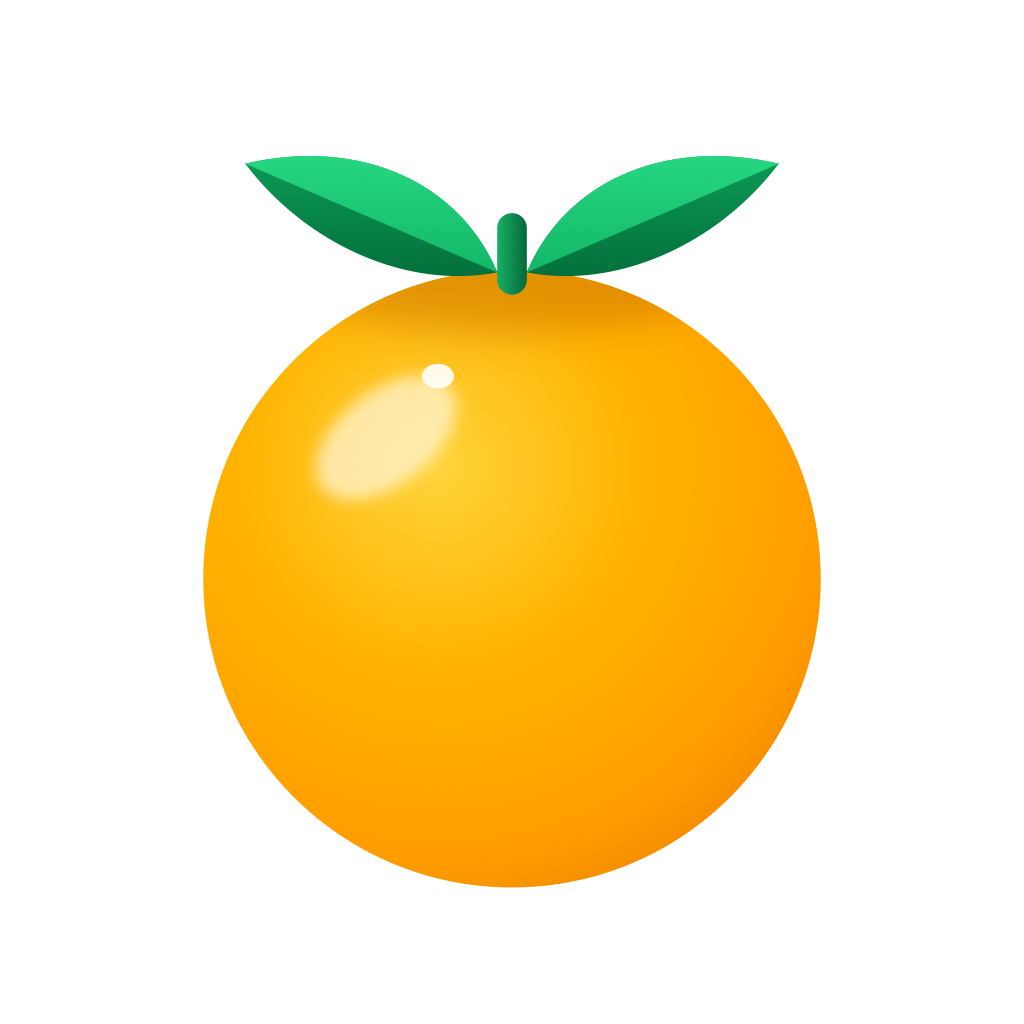
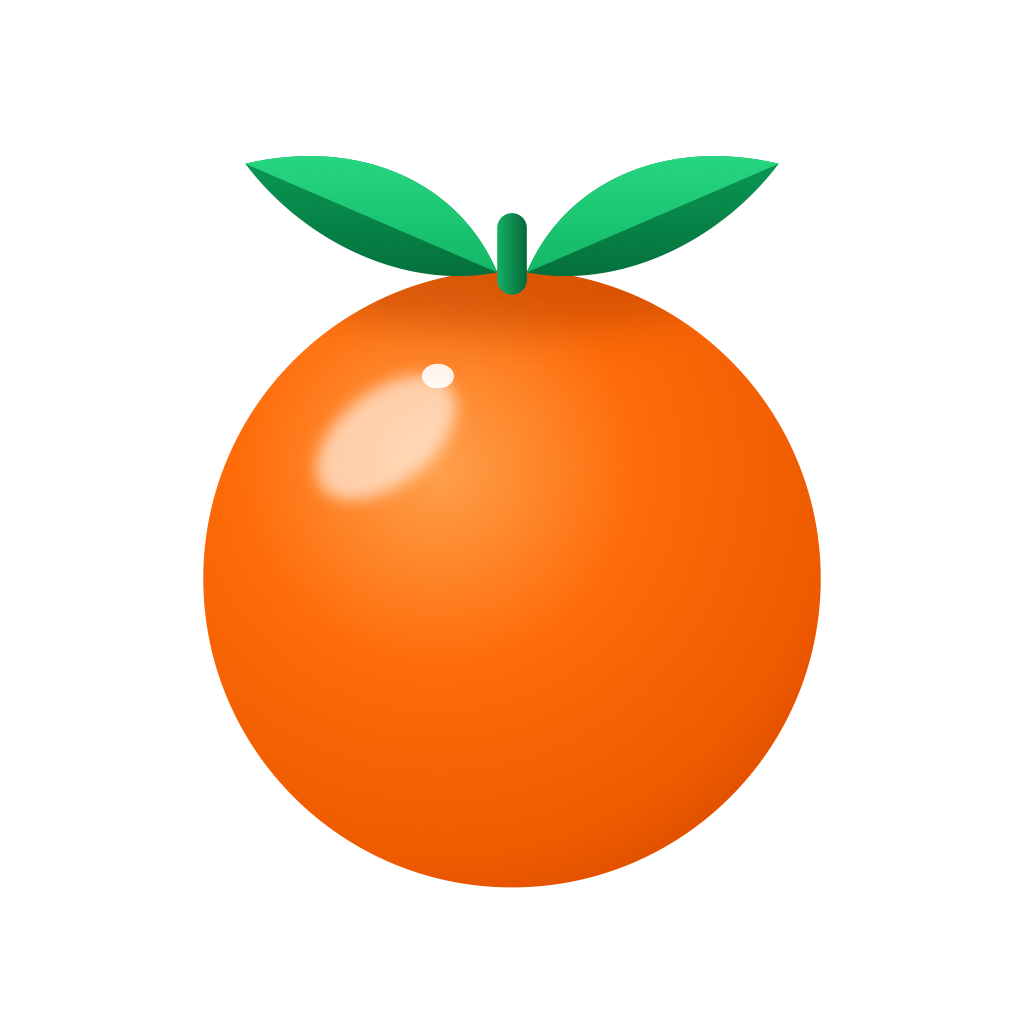
feat: цвет иконки — кожура грейпфрута #FE6B08, репозиторий в melogold-app
Плод иконки перекрашен в цвет кожуры грейпфрута. Ссылки в README
ведут на организацию melogold-app.

Changed region(s): [[0.1875, 0.25, 0.8125, 0.875]]

diff --git a/README.md b/README.md
@@ -4,7 +4,7 @@
 
 <h1 align="center">Melogold для iOS и macOS</h1>
 
-<p align="center">Клиент <a href="https://github.com/MaximCemencov/melogoldAndroid">Melogold</a> для iPhone, iPad и Mac: музыка из YouTube Music с общими избранным, библиотекой и плейлистами на всех устройствах.</p>
+<p align="center">Клиент <a href="https://github.com/melogold-app/melogoldAndroid">Melogold</a> для iPhone, iPad и Mac: музыка из YouTube Music с общими избранным, библиотекой и плейлистами на всех устройствах.</p>
 
 ## Статус
 
@@ -12,7 +12,7 @@
 
 - нативное приложение на Swift и SwiftUI с общей кодовой базой для iOS и macOS;
 - вход в аккаунт Melogold и список подключённых устройств;
-- на macOS — автообновление из [GitHub Releases](https://github.com/MaximCemencov/melogoldiOSmacOS/releases)
+- на macOS — автообновление из [GitHub Releases](https://github.com/melogold-app/melogoldiOSmacOS/releases)
   через Sparkle;
 - на iOS самообновление из GitHub невозможно, способ распространения ещё выбирается.
 
@@ -22,7 +22,7 @@
 
 | Платформа | Репозиторий |
 |---|---|
-| Android | [melogoldAndroid](https://github.com/MaximCemencov/melogoldAndroid) |
+| Android | [melogoldAndroid](https://github.com/melogold-app/melogoldAndroid) |
 | Сервер | melogoldServer |
 | Windows | melogoldWindows |
 | Linux | melogoldLinux |
